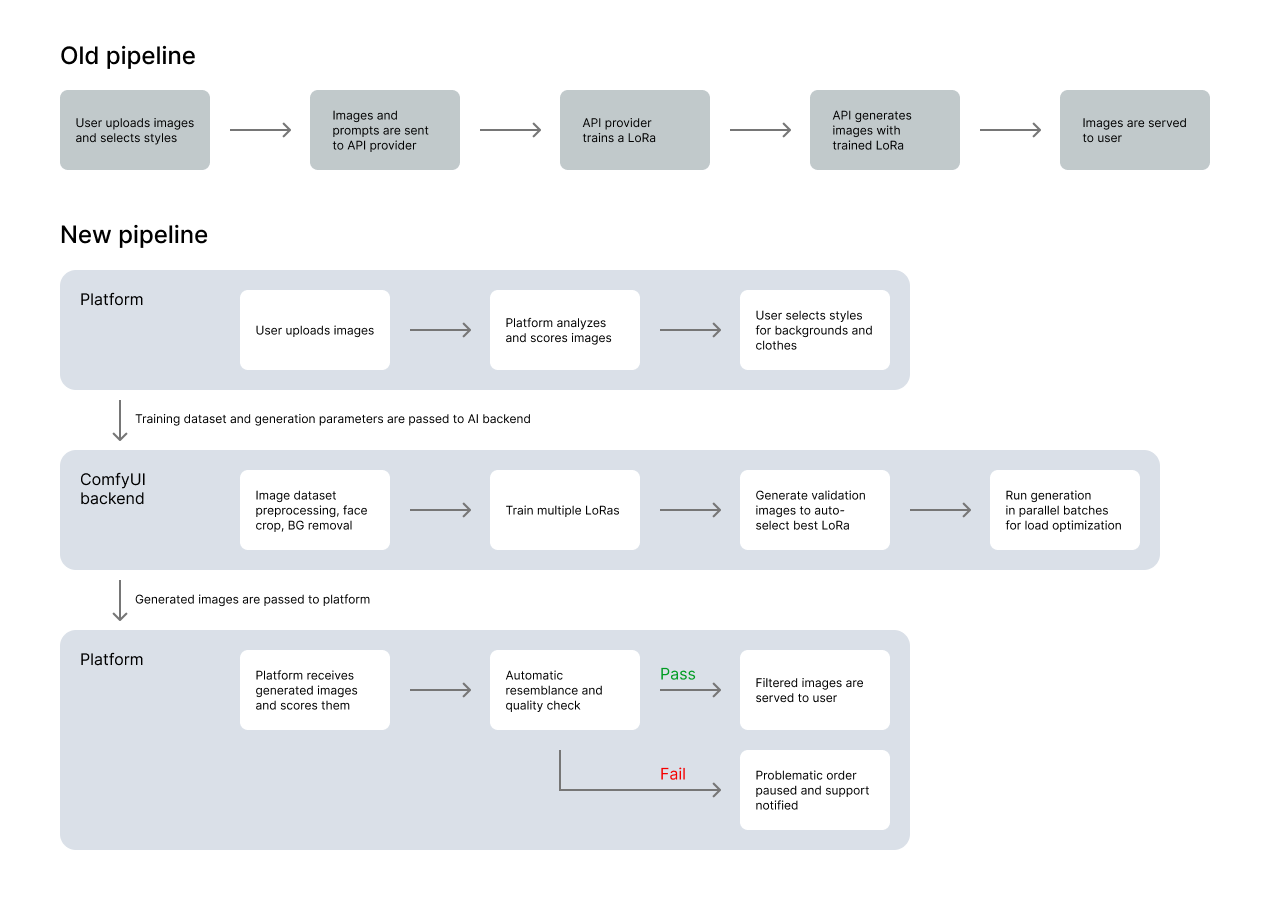
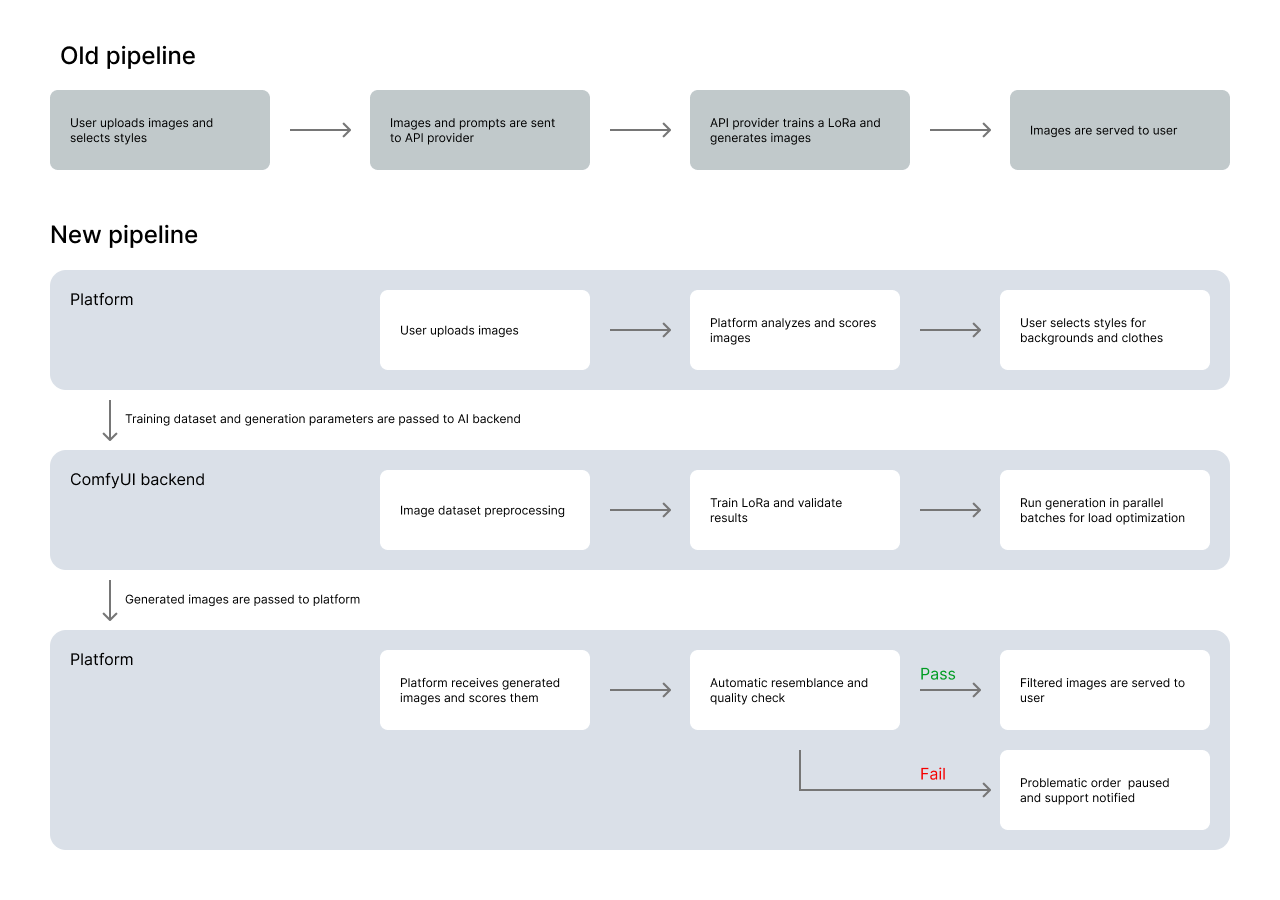
Update pipeline case study text and diagram image

diff --git a/case-study-betterpic-pipeline/index.md b/case-study-betterpic-pipeline/index.md
@@ -77,7 +77,7 @@ Delivered to user (60-100 images per order)
 
 Built a custom LoRA training infrastructure for per-user face models on FLUX. Through extensive parameter testing and optimization, I developed a versatile and robust workflow that trains a usable LoRA from just 8 face images — keeping training fast and cheap on compute while maintaining high identity fidelity. Each customer's uploaded photos are preprocessed, captioned, and used to train a lightweight LoRA that captures their facial identity. The move from SD 1.5 to FLUX LoRAs was a generational leap in identity preservation.
 
-**Similarity scores** (measured via AWS Rekognition):
+**Similarity scores** (measured via similarity model):
 - SD 1.5 API: averaging **98.50 — 99.50**
 - FLUX in-house: consistently **99.99 — 100.00** (we had to increase measurement precision because the old scale topped out)
 
@@ -106,7 +106,7 @@ Where existing ComfyUI nodes didn't meet our needs, I developed custom nodes —
 
 The quality jump was immediately visible — skin texture, eye realism, hair detail, clothing folds, background depth. This wasn't a subtle improvement, it was a different tier of output entirely.
 
-**Identity similarity (AWS Rekognition):**
+**Identity similarity:**
 
 | | SD 1.5 (External API) | FLUX (In-House) |
 |---|---|---|
@@ -159,5 +159,5 @@ Moving in-house cut the per-order AI cost to roughly a third of what the externa
 
 ## Tech Stack
 
-`FLUX.1-dev` `ComfyUI` `LoRA` `Python` `PyTorch`
-`AWS Rekognition` `Segmentation` `Face Detection` `Custom ComfyUI Nodes`
+`FLUX.1-dev` `ComfyUI` `LoRA` `Python` `PyTorch` 
+`Segmentation` `Face Detection` `Custom ComfyUI Nodes`
